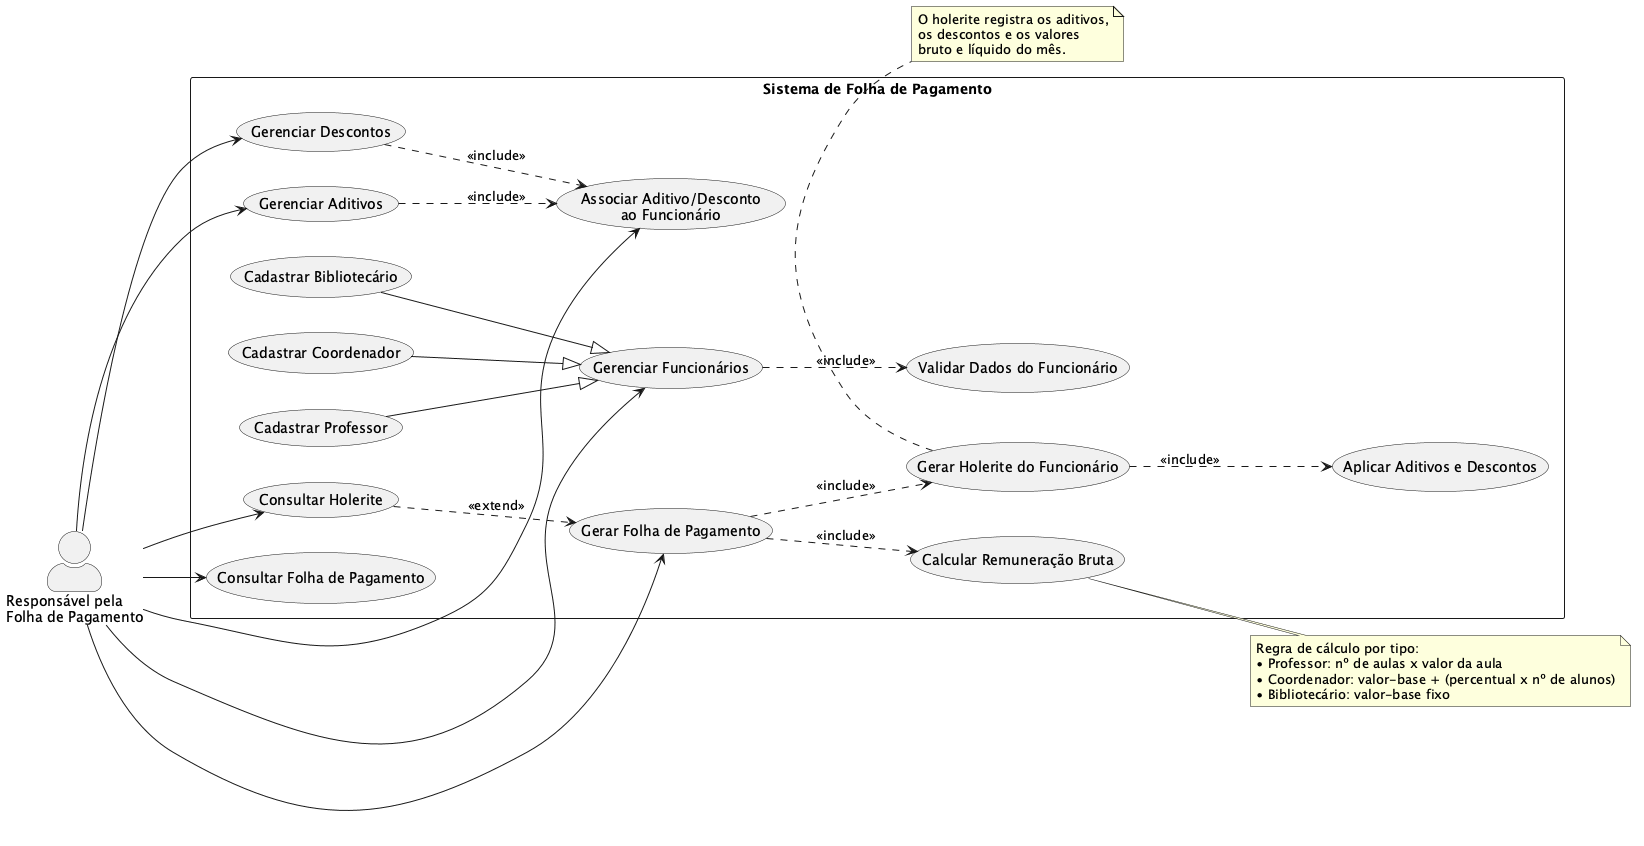
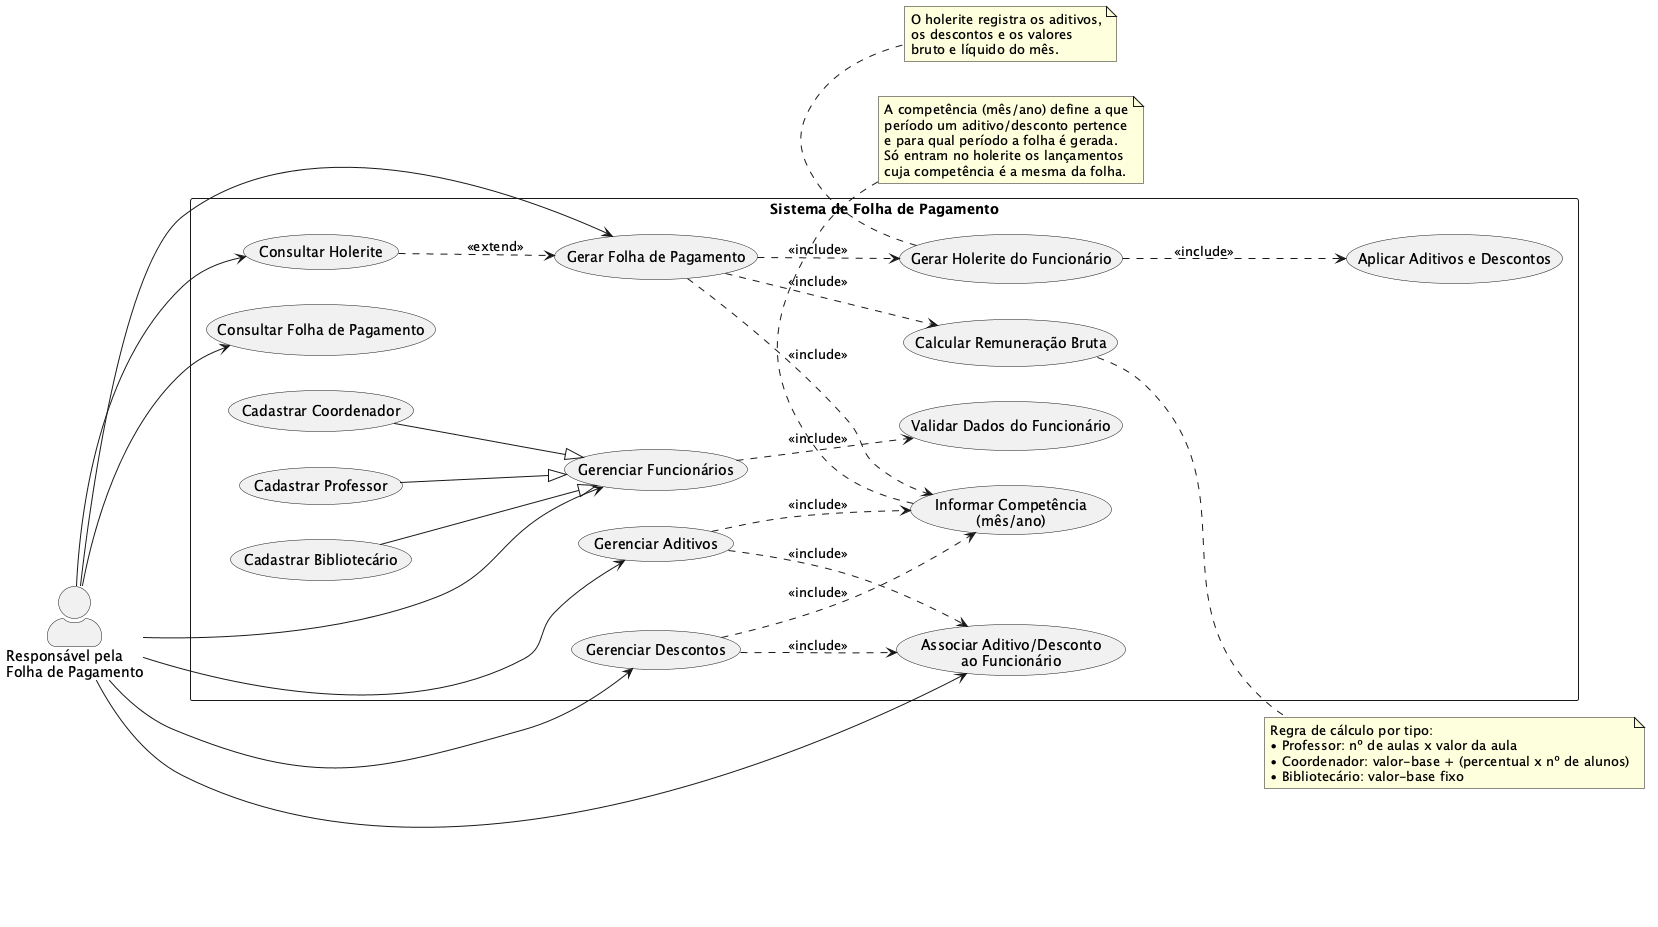
Atualiza diagrama de caso de uso com a Competência
Adiciona o caso de uso "Informar Competência (mês/ano)", incluído por
"Gerenciar Aditivos", "Gerenciar Descontos" e "Gerar Folha de
Pagamento" — refletindo que lançamentos e a folha agora são sempre
vinculados a uma competência específica.

diff --git a/docs/diagrama-caso-de-uso.md b/docs/diagrama-caso-de-uso.md
@@ -20,7 +20,8 @@ Fonte do diagrama: [`diagrama-caso-de-uso.puml`](diagrama-caso-de-uso.puml) (Pla
 | UC2 | Gerenciar Aditivos | Cadastro dos acréscimos do mês. |
 | UC3 | Gerenciar Descontos | Cadastro dos descontos do mês. |
 | UC4 | Associar Aditivo/Desconto ao Funcionário | `<<include>>` de UC2 e UC3 — todo lançamento pertence a um profissional. |
-| UC5 | Gerar Folha de Pagamento | Processa o mês fechado, percorrendo todos os profissionais cadastrados. |
+| UC11 | Informar Competência (mês/ano) | `<<include>>` de UC2, UC3 e UC5 — define a qual mês um lançamento pertence e para qual mês a folha é gerada. |
+| UC5 | Gerar Folha de Pagamento | Processa uma competência específica, percorrendo todos os profissionais cadastrados. |
 | UC6 | Calcular Remuneração Bruta | `<<include>>` de UC5 — aplica a regra de cálculo de cada tipo de profissional. |
 | UC7 | Aplicar Aditivos e Descontos | `<<include>>` de UC8 — soma os acréscimos e subtrai os descontos do período. |
 | UC8 | Gerar Holerite do Funcionário | `<<include>>` de UC5 — um holerite por profissional, com bruto, líquido, aditivos e descontos. |
@@ -36,8 +37,8 @@ Fonte do diagrama: [`diagrama-caso-de-uso.puml`](diagrama-caso-de-uso.puml) (Pla
 ## Fluxo principal
 
 1. O responsável cadastra os profissionais (UC1 / UC1A–UC1C), validados em UC1V.
-2. Lança aditivos (UC2) e descontos (UC3), sempre associados a um profissional (UC4).
-3. Dispara a geração da folha (UC5): para cada profissional o sistema calcula o bruto (UC6), gera o holerite (UC8) aplicando aditivos e descontos (UC7) e apura o líquido.
+2. Lança aditivos (UC2) e descontos (UC3), sempre associados a um profissional (UC4) e a uma competência (UC11).
+3. Dispara a geração da folha (UC5) para uma competência específica (UC11): para cada profissional o sistema calcula o bruto (UC6), gera o holerite (UC8) aplicando os aditivos e descontos **daquela competência** (UC7) e apura o líquido.
 4. Consulta os holerites (UC9) e a folha consolidada (UC10).
 
 ## Como gerar a imagem
